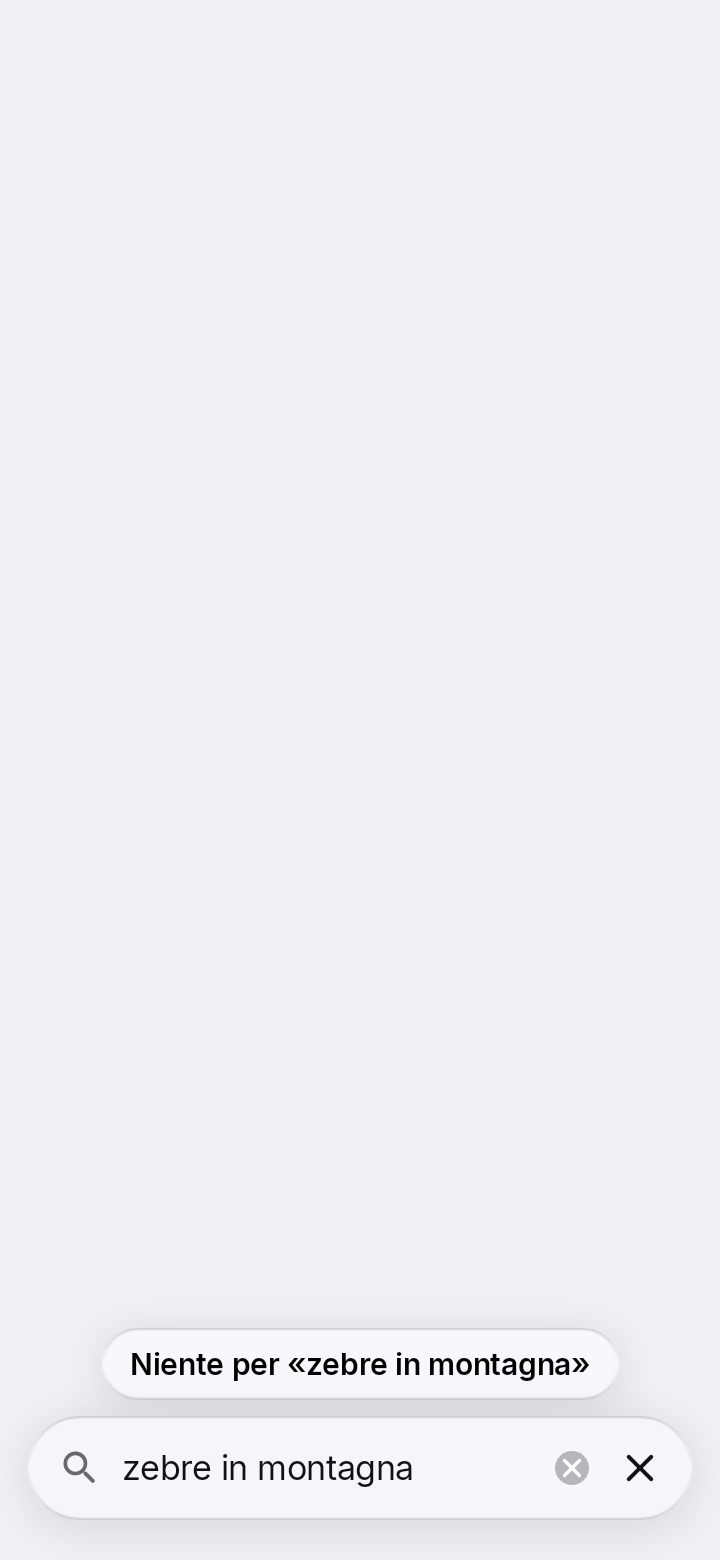
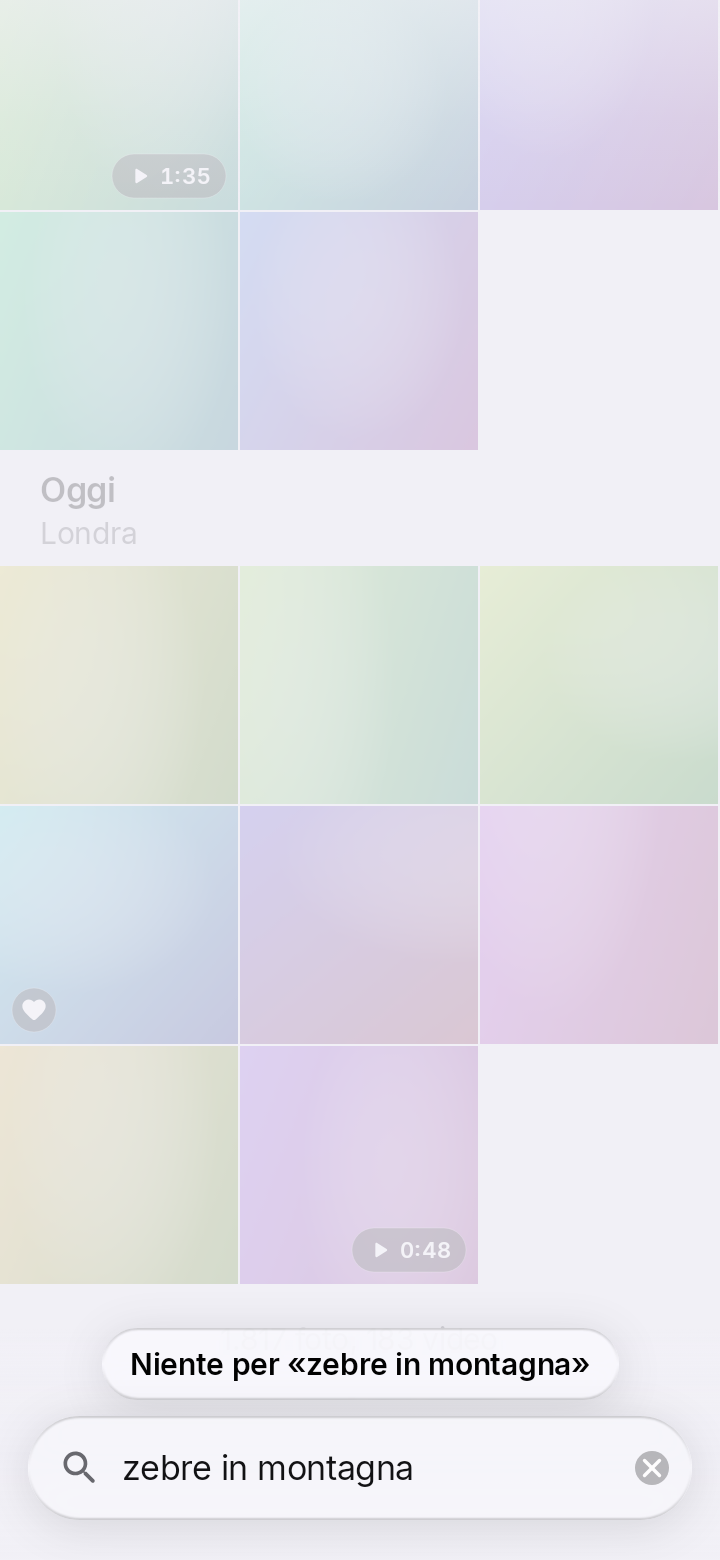
Screenshot (H4, giro 1): la ricerca rifatta dopo CG-2, CU-2, CU-3, CU-4, CU-11, CU-12
Rifatti: aperta-campo-vuoto (i suggerimenti interi), scrivendo-risultati (una X sola; sul tablet l'intestazione dei meno probabili sopra di loro e il filo), nessun-risultato (la Libreria attenuata dietro la riga), risultati-selezione (tablet), trova-simili, suggerimenti-lunghi-testo-grande (distinguibili). Nuovi: aperta-tastiera-libreria-alzata (la Libreria salita con la barra; al posto della tastiera un blocco neutro), suggerimenti-lunghi (360 dp, chiaro e scuro), apertura-a-meta-da-album (un fotogramma a meta' apertura: il vetro con la misura finale, rivelato). Tolto da-album-scrivendo: era uguale a scrivendo-risultati.

diff --git a/app/src/test/kotlin/dev/pampa/mycloudgallery/H4RicercaScreenshotTest.kt b/app/src/test/kotlin/dev/pampa/mycloudgallery/H4RicercaScreenshotTest.kt
@@ -2,10 +2,27 @@ package dev.pampa.mycloudgallery
 
 import android.app.Application
 import android.content.pm.ActivityInfo
+import android.view.View
 import androidx.activity.ComponentActivity
+import androidx.compose.foundation.background
+import androidx.compose.foundation.layout.Box
+import androidx.compose.foundation.layout.WindowInsets
+import androidx.compose.foundation.layout.fillMaxSize
+import androidx.compose.foundation.layout.fillMaxWidth
+import androidx.compose.foundation.layout.height
+import androidx.compose.foundation.layout.ime
+import androidx.compose.material3.MaterialTheme
 import androidx.compose.runtime.Composable
 import androidx.compose.runtime.CompositionLocalProvider
+import androidx.compose.runtime.SideEffect
+import androidx.compose.runtime.getValue
+import androidx.compose.runtime.mutableStateOf
+import androidx.compose.runtime.setValue
+import androidx.compose.runtime.snapshots.Snapshot
+import androidx.compose.ui.Alignment
+import androidx.compose.ui.Modifier
 import androidx.compose.ui.platform.LocalDensity
+import androidx.compose.ui.platform.LocalView
 import androidx.compose.ui.test.junit4.v2.createComposeRule
 import androidx.compose.ui.test.onRoot
 import androidx.compose.ui.unit.Density
@@ -33,13 +50,15 @@ import org.robolectric.annotation.Config
 import org.robolectric.annotation.GraphicsMode
 
 /**
- * Gli screenshot della ricerca dentro la Libreria (H4 della fase H, 11/11: «stile ricerca in app Apple»), per l'utente: la barra aperta a campo vuoto con i
- * tre suggerimenti in alto e la Libreria dietro; mentre si scrive, con i risultati per pertinenza al posto della griglia (i piu' adatti subito sopra la
- * barra, i meno probabili in coda); nessun risultato (una riga sola sopra la barra); aperta da un'altra scheda; "Trova simili"; i risultati in selezione
- * (la barra delle azioni della Libreria al posto della barra di ricerca). Chiaro e scuro, il telefono dell'utente (360 dp) e il tablet; sul telefono anche
- * i suggerimenti lunghi con il testo a 1,3x (si accorciano con i puntini, non vanno a capo). Tutto dallo scaffold delle prove: le schede vere su stati dati.
+ * Gli screenshot della ricerca dentro la Libreria (H4 della fase H, 11/11: «stile ricerca in app Apple»; giro di correzione 1), per l'utente: la barra
+ * aperta a campo vuoto con i tre suggerimenti in alto e la Libreria dietro; la stessa con la tastiera su e la Libreria salita con la barra; mentre si
+ * scrive, con i risultati per pertinenza al posto della griglia (i piu' adatti subito sopra la barra, i meno probabili in cima con la loro intestazione
+ * sopra); nessun risultato (la riga sopra la barra e la Libreria attenuata dietro); l'apertura a meta' da un'altra scheda; "Trova simili"; i risultati in
+ * selezione (la barra delle azioni della Libreria al posto della barra di ricerca). Chiaro e scuro, il telefono dell'utente (360 dp) e il tablet; sul
+ * telefono anche i suggerimenti lunghi, distinguibili, a misura normale e con il testo a 1,3x. Tutto dallo scaffold delle prove: le schede vere su stati
+ * dati.
  *
- * La tastiera non c'e' (Robolectric): la barra sta nel posto della pillola. La salita con la tastiera si giudica sul telefono.
+ * La tastiera vera non c'e' (Robolectric): nello screenshot con la tastiera il suo posto e' un blocco neutro alto quanto l'inset.
  *
  * `gradlew :app:recordRoborazziDebug --tests dev.pampa.mycloudgallery.H4RicercaPhoneScreenshotTest` (e `...TabletScreenshotTest`) scrive i PNG in
  * `docs/screenshots/beta-grafica/H4/`.
@@ -65,8 +84,11 @@ internal abstract class H4RicercaScreenshotBase(private val dark: Boolean, priva
 
   private val look: String get() = if (dark) "scuro" else "chiaro"
 
-  /** [afterShow] porta la schermata nello stato da fotografare; poi si lascia assestare ogni animazione (la barra che si apre, le dissolvenze) e si scatta. */
-  protected fun shoot(name: String, fontScale: Float? = null, afterShow: () -> Unit = {}, content: @Composable () -> Unit) {
+  /**
+   * [afterShow] porta la schermata nello stato da fotografare; poi si lascia assestare ogni animazione (la barra che si apre, le dissolvenze) e si scatta.
+   * Con [settle] falso si scatta subito: un fotogramma a meta' di un'animazione, fermato da [afterShow].
+   */
+  protected fun shoot(name: String, fontScale: Float? = null, settle: Boolean = true, afterShow: () -> Unit = {}, content: @Composable () -> Unit) {
     composeRule.setContent {
       MyCloudGalleryTheme(settings = EngineSettings(themeMode = if (dark) ThemeMode.DARK else ThemeMode.LIGHT)) {
         val density = LocalDensity.current
@@ -75,9 +97,11 @@ internal abstract class H4RicercaScreenshotBase(private val dark: Boolean, priva
     }
     composeRule.waitForIdle()
     afterShow()
-    composeRule.waitForIdle()
-    composeRule.mainClock.advanceTimeBy(SETTLE_MS)
-    composeRule.waitForIdle()
+    if (settle) {
+      composeRule.waitForIdle()
+      composeRule.mainClock.advanceTimeBy(SETTLE_MS)
+      composeRule.waitForIdle()
+    }
     val suffix = if (fontScale != null) "-testo-grande" else ""
     composeRule.onRoot().captureRoboImage("$DIR/$name-$look-$device$suffix.png")
   }
@@ -96,18 +120,75 @@ internal abstract class H4RicercaScreenshotBase(private val dark: Boolean, priva
     shoot("scrivendo-risultati") { GalleryScaffold(scenes, GalleryTab.Library, searchOpen = true, search = scenes.searchTyping) }
   }
 
-  /** Nessun risultato: la griglia vuota e una riga sola sopra la barra; senza completamenti la barra in alto si e' ritirata. */
+  /**
+   * Nessun risultato (CU-11 del giro 1): una riga sola sopra la barra e, dietro, la Libreria attenuata da un velo (non uno schermo vuoto); senza
+   * completamenti la barra in alto si e' ritirata.
+   */
   @Test
   fun nessunRisultato() {
     val scenes = ScaffoldScenes()
     shoot("nessun-risultato") { GalleryScaffold(scenes, GalleryTab.Library, searchOpen = true, search = scenes.searchNothing) }
   }
 
-  /** Aperta dalla scheda Album: dietro c'e' la Libreria come base dei risultati (chiudendo si torna agli Album). */
+  /**
+   * Aperta dalla scheda Album, **a meta' apertura** (CG-2 del giro 1): dietro c'e' gia' la Libreria, la pillola si raccoglie verso il cerchio e la barra si
+   * allarga dal cerchio. Il vetro della barra ha la sua misura finale: si vede la parte rivelata, con il capo sinistro vero (bordo e ombra) e il capo destro
+   * ritagliato tondo. (Prima: `da-album-scrivendo`, uguale a `scrivendo-risultati` perche' i risultati coprono la Libreria.)
+   */
   @Test
-  fun daUnAltraScheda() {
+  fun daUnAltraSchedaAMetaApertura() {
     val scenes = ScaffoldScenes()
-    shoot("da-album-scrivendo") { GalleryScaffold(scenes, GalleryTab.Albums, searchOpen = true, search = scenes.searchTyping) }
+    var open by mutableStateOf(false)
+    shoot(
+      "apertura-a-meta-da-album",
+      settle = false,
+      afterShow = {
+        composeRule.mainClock.autoAdvance = false
+        // Con l'orologio fermo la scrittura va notificata subito (uno snapshot che si applica), se no la composizione non la vede.
+        Snapshot.withMutableSnapshot { open = true }
+        composeRule.mainClock.advanceTimeBy(HALF_OPEN_MS)
+      },
+    ) { GalleryScaffold(scenes, GalleryTab.Albums, searchOpen = open, search = scenes.searchIdle) }
+  }
+
+  /**
+   * A campo vuoto con la tastiera su (CU-4 del giro 1): la barra sta sopra la tastiera e **la Libreria e' salita con lei**, le foto piu' recenti restano
+   * visibili. Robolectric non disegna la tastiera: al suo posto un blocco neutro della sua altezza, disegnato dalla prova.
+   */
+  @Test
+  fun aCampoVuotoConLaTastiera() {
+    val scenes = ScaffoldScenes()
+    shoot("aperta-tastiera-libreria-alzata", afterShow = { composeRule.runOnIdle { openKeyboard(KEYBOARD_FRACTION) } }) {
+      val view = LocalView.current
+      SideEffect { composeView = view }
+      Box(Modifier.fillMaxSize()) {
+        GalleryScaffold(scenes, GalleryTab.Library, searchOpen = true, search = scenes.searchIdle)
+        KeyboardStandIn(Modifier.align(Alignment.BottomCenter))
+      }
+    }
+  }
+
+  /** La vista di Compose della scena (gli inset della tastiera si consegnano a lei). */
+  private var composeView: View? = null
+
+  /** Il posto della tastiera nello screenshot: un blocco del colore delle superfici alte, alto quanto l'inset della tastiera. */
+  @Composable
+  private fun KeyboardStandIn(modifier: Modifier) {
+    val height = with(LocalDensity.current) { WindowInsets.ime.getBottom(this).toDp() }
+    Box(modifier.fillMaxWidth().height(height).background(MaterialTheme.colorScheme.surfaceContainerHigh))
+  }
+
+  /**
+   * La tastiera aperta per una frazione dell'altezza dello schermo: Robolectric non manda gli inset da solo, si consegnano alla vista di Compose (come in
+   * `RicercaTastieraTest`).
+   */
+  private fun openKeyboard(fraction: Float) {
+    val view = checkNotNull(composeView) { "La scena non ha ancora una vista." }
+    val insets = android.view.WindowInsets.Builder()
+      .setInsets(android.view.WindowInsets.Type.ime(), android.graphics.Insets.of(0, 0, 0, (view.height * fraction).toInt()))
+      .setVisible(android.view.WindowInsets.Type.ime(), true)
+      .build()
+    view.dispatchApplyWindowInsets(insets)
   }
 
   /** "Trova simili" da una foto: il campo vuoto, i simili per pertinenza, la riga che dice da dove vengono. */
@@ -141,6 +222,12 @@ internal abstract class H4RicercaScreenshotBase(private val dark: Boolean, priva
     /** Piu' di ogni animazione (la barra che si apre, le dissolvenze dei pezzi in alto e dei risultati). */
     const val SETTLE_MS = 2_000L
 
+    /** Il fotogramma dell'apertura a meta': la molla della barra e' circa a meta' strada. */
+    const val HALF_OPEN_MS = 110L
+
+    /** La tastiera dello screenshot: due quinti dello schermo, come una tastiera vera in verticale. */
+    const val KEYBOARD_FRACTION = 0.4f
+
     fun looks(): List<Array<Any>> = listOf(arrayOf<Any>(false), arrayOf<Any>(true))
   }
 }
@@ -150,21 +237,33 @@ internal abstract class H4RicercaScreenshotBase(private val dark: Boolean, priva
 @Config(application = Application::class, qualifiers = SHOT_PHONE)
 internal class H4RicercaPhoneScreenshotTest(dark: Boolean) : H4RicercaScreenshotBase(dark, "telefono") {
 
-  /** A 360 dp con il testo a 1,3x i tre suggerimenti lunghi si accorciano con i puntini, senza andare a capo (solo in chiaro). */
+  /** Scrivendo «compleanno», tre completamenti lunghi: due cominciano con cio' che l'utente ha gia' scritto. */
+  private fun longSuggestions(scenes: ScaffoldScenes) = FixedSearchSource(
+    query = "compleanno",
+    suggestions = listOf(
+      Suggestion.Recent(HistoryEntry(1, "compleanno della nonna a Firenze", emptyList())),
+      Suggestion.PlaceSuggestion(PlaceOption(setOf(7), "Castiglione della Pescaia", PlaceLevel.PLACE)),
+      Suggestion.Recent(HistoryEntry(2, "compleanno di Anna al mare", emptyList())),
+    ),
+    state = scenes.searchTyping.state,
+  )
+
+  /**
+   * CU-2 del giro 1: a 360 dp i tre suggerimenti lunghi restano **distinguibili** (prima «comple… | Castigli… | comple…»): il testo si rimpicciolisce,
+   * poi la parte gia' scritta diventa i puntini all'inizio.
+   */
+  @Test
+  fun suggerimentiLunghi() {
+    val scenes = ScaffoldScenes()
+    shoot("suggerimenti-lunghi") { GalleryScaffold(scenes, GalleryTab.Library, searchOpen = true, search = longSuggestions(scenes)) }
+  }
+
+  /** Gli stessi con il testo a 1,3x (solo in chiaro): ancora distinguibili, senza andare a capo. */
   @Test
   fun suggerimentiLunghiTestoGrande() {
     if (dark) return
     val scenes = ScaffoldScenes()
-    val long = FixedSearchSource(
-      query = "compleanno",
-      suggestions = listOf(
-        Suggestion.Recent(HistoryEntry(1, "compleanno della nonna a Firenze", emptyList())),
-        Suggestion.PlaceSuggestion(PlaceOption(setOf(7), "Castiglione della Pescaia", PlaceLevel.PLACE)),
-        Suggestion.Recent(HistoryEntry(2, "compleanno di Anna al mare", emptyList())),
-      ),
-      state = scenes.searchTyping.state,
-    )
-    shoot("suggerimenti-lunghi", fontScale = LARGE_TEXT) { GalleryScaffold(scenes, GalleryTab.Library, searchOpen = true, search = long) }
+    shoot("suggerimenti-lunghi", fontScale = LARGE_TEXT) { GalleryScaffold(scenes, GalleryTab.Library, searchOpen = true, search = longSuggestions(scenes)) }
   }
 
   private val dark: Boolean = dark

diff --git a/app/src/test/kotlin/dev/pampa/mycloudgallery/ScaffoldScenes.kt b/app/src/test/kotlin/dev/pampa/mycloudgallery/ScaffoldScenes.kt
@@ -139,7 +139,10 @@ internal class ScaffoldScenes(
     state = results(confident = (0 until 34).toList(), likely = (120 until 128).toList()),
   )
 
-  /** Nessun risultato per «zebre in montagna»: la griglia vuota e una riga sola sopra la barra; nessun completamento, la barra in alto si ritira. */
+  /**
+   * Nessun risultato per «zebre in montagna»: la Libreria attenuata dietro (CU-11) e una riga sola sopra la barra; nessun completamento, la barra in alto si
+   * ritira.
+   */
   val searchNothing: SearchSource = FixedSearchSource(query = "zebre in montagna", state = SearchScreenState.NoResults("zebre in montagna", emptyList()))
 
   /** "Trova simili" da una foto: il campo vuoto, i simili per pertinenza, la riga che dice da dove vengono. */
